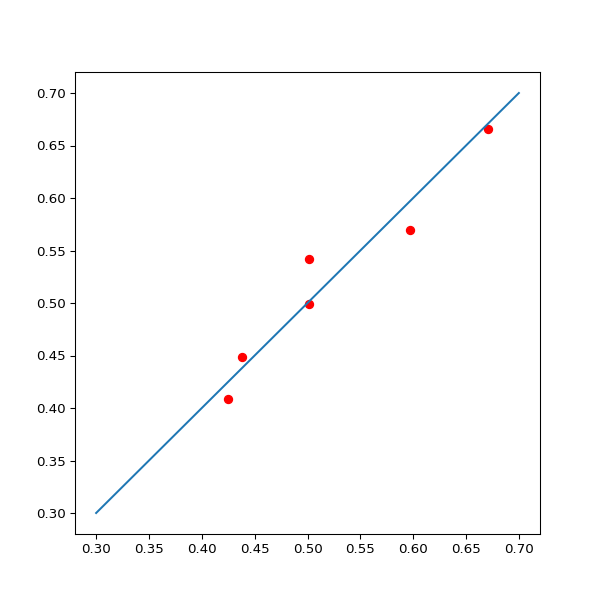
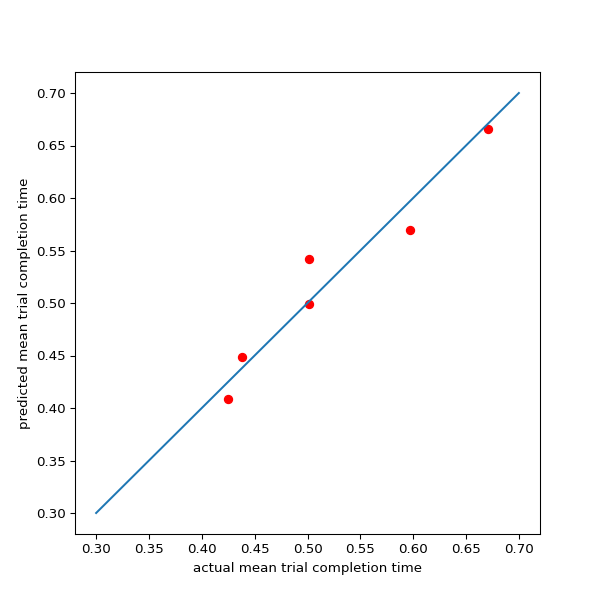
final

Changed region(s): [[0.03, 0.3, 0.06, 0.72], [0.33, 0.93, 0.72, 0.96]]

diff --git a/project2/fitting.py b/project2/fitting.py
@@ -6,6 +6,7 @@ import pandas as pd
 
 from drift_diffusion_simul import drift_diffusion_simulation
 
+# problem 1 model and call by optimizer
 def p1model(x, c1, c2, c3, c4):
     x = np.array(x) / 1000
     sigma1 = c2 * x[:, 3]
@@ -14,6 +15,7 @@ def p1model(x, c1, c2, c3, c4):
     sigma = (np.power(sigma1, 2) * np.power(sigma2, 2)) / (
         np.power(sigma1, 2) + np.power(sigma2, 2)
     )
+    # Exception handling when sigma2 is 0
     for i in range(0, 8):
         if np.isnan(sigma[i]):
             sigma[i] = sigma1[i] ** 2
@@ -35,7 +37,7 @@ def mta_fitting(input_tech: bool, data_file_path="./dataset/mta_sample_data.csv"
     data = pd.read_csv(data_file_path)
     key = data["key"] == onkey
     success = data["success"] == 1
-
+    # Extracting required data
     for i in range(1, 9):
         cond = data["cond"] == i
         y.append(1 - data[cond & key]["success"].mean())
@@ -45,13 +47,15 @@ def mta_fitting(input_tech: bool, data_file_path="./dataset/mta_sample_data.csv"
             .mean()
             .to_numpy()
         )
-
+    # Use curve_fit to find optimal parameters
     popt, _ = scipy.optimize.curve_fit(
         p1model, x, np.array(y), bounds=([-0.6, 0, 0, 0], [0.6, 0.5, 0.1, 500])
     )
     plt.figure(figsize=(600 / 96, 600 / 96), dpi=96)
     plt.plot(y, p1model(x, *popt), "ro")
     plt.plot([0, 0.5, 1], [0, 0.5, 1], label="x=y")
+    plt.xlabel("input failure rate")
+    plt.ylabel("predicted failure rate")
     if input_tech:
         plt.savefig("./scatterplot/mta_pressed.png", dpi=96)
     else:
@@ -61,6 +65,7 @@ def mta_fitting(input_tech: bool, data_file_path="./dataset/mta_sample_data.csv"
     return c1, c2, c3, c4, R2
 
 
+# problem 2 model and call by optimizer
 def p2model(x, a, b):
     x = np.array(x)
     return a + b * np.log(x[:, 1] / x[:, 0] + 1)
@@ -71,6 +76,7 @@ def fl_fitting(data_file_path="./dataset/pointing_task.csv"):
     x = []
     y = []
     data = pd.read_csv(data_file_path)
+    # Conditions for extracting necessary data
     widths = [data["width"] == 50, data["width"] == 36.7, data["width"] == 15]
     dists = [data["distance"] == 400, data["distance"] == 800]
     cond = data["success"] == 1
@@ -78,10 +84,13 @@ def fl_fitting(data_file_path="./dataset/pointing_task.csv"):
         for j in dists:
             x.append(data[i & j & cond].loc[:, ["width", "distance"]].mean().to_numpy())
             y.append(data[i & j & cond]["time"].mean())
+    # Use curve_fit to find optimal parameters
     popt, _ = scipy.optimize.curve_fit(p2model, x, np.array(y), p0=[0, 1])
     plt.figure(figsize=(600 / 96, 600 / 96), dpi=96)
     plt.plot(y, p2model(x, *popt), "ro")
     plt.plot([0.3, 0.5, 0.7], [0.3, 0.5, 0.7], label="x=y")
+    plt.xlabel("actual mean trial completion time")
+    plt.ylabel("predicted mean trial completion time")
     plt.savefig("./scatterplot/f1.png", dpi=96)
     R2 = r2_score(p2model(x, *popt), np.array(y))
     a, b = popt
@@ -89,45 +98,46 @@ def fl_fitting(data_file_path="./dataset/pointing_task.csv"):
 
 
 # Problem 3
-given_instruction_is = 2  # 1 OR 2
+given_instruction_is = 1  # 1 OR 2
 
-
+# ecdf for data x
 def ecdf(x):
     y = np.cumsum(np.ones(x.shape[0]))
     return np.sort(x), y / y.shape[0]
 
 
+# log likelihood function
 def logLikelihood(xdata, x, y):
     res = (np.interp(xdata + 0.01, x, y) - np.interp(xdata, x, y)) / 0.01
     res[res == 0] = 0.0000000000001
     return np.sum(np.log(res))
 
 
-def p3model(x, xdata):
+# model of Q4 and call by optimizer
+def p4model(x, xdata):
     temp = np.array(drift_diffusion_simulation(x[0], x[1], x[2])).T
     xs, ys = ecdf(temp[temp[:, 1] == 1][:, 0])
     xe, ye = ecdf(temp[temp[:, 1] == 0][:, 0])
     res1 = logLikelihood(xdata[xdata[:, 1] == 1][:, 0], xs, ys)
     res2 = logLikelihood(xdata[xdata[:, 1] == 0][:, 0], xe, ye)
     result = res1 + res2
-    print(result)
     return -result
 
 
 # Problem 4
 def dd_fitting(data_file_path="./dataset/choice_reaction.csv"):
     data = pd.read_csv(data_file_path).sort_values(by=["reaction_time"]).to_numpy()
-
+    # use minimize optimizer and method is L-BFGS-B
     res = scipy.optimize.minimize(
-        p3model,
+        p4model,
         [0.074, 0.316, 0.283],
         args=(data),
         method="L-BFGS-B",
         bounds=[(0.045, 0.075), (0.25, 0.32), (0.25, 0.35)],
     )
-    print(res)
     a, mu, Ter = res["x"]
     xdata = np.array(drift_diffusion_simulation(a, mu, Ter)).T
+    # histogram of correct reaction
     plt.figure(figsize=(600 / 96, 600 / 96), dpi=96)
     plt.hist(
         (data[data[:, 1] == 1][:, 0], xdata[xdata[:, 1] == 1][:, 0]),
@@ -135,20 +145,19 @@ def dd_fitting(data_file_path="./dataset/choice_reaction.csv"):
         histtype="step",
         density=True,
     )
+    plt.xlabel("reaction time")
+    plt.ylabel("density")
     plt.savefig("./scatterplot/dd_correct.png", dpi=96)
     plt.clf()
+    # histogram of error reaction
     plt.hist(
         (data[data[:, 1] == 0][:, 0], xdata[xdata[:, 1] == 0][:, 0]),
         bins=30,
         histtype="step",
         density=True,
     )
+    plt.xlabel("reaction time")
+    plt.ylabel("density")
     plt.savefig("./scatterplot/dd_error.png", dpi=96)
 
     return a, mu, Ter, -res["fun"]
-
-
-if __name__ == "__main__":
-    mta_fitting(True)
-    fl_fitting()
-    dd_fitting()
